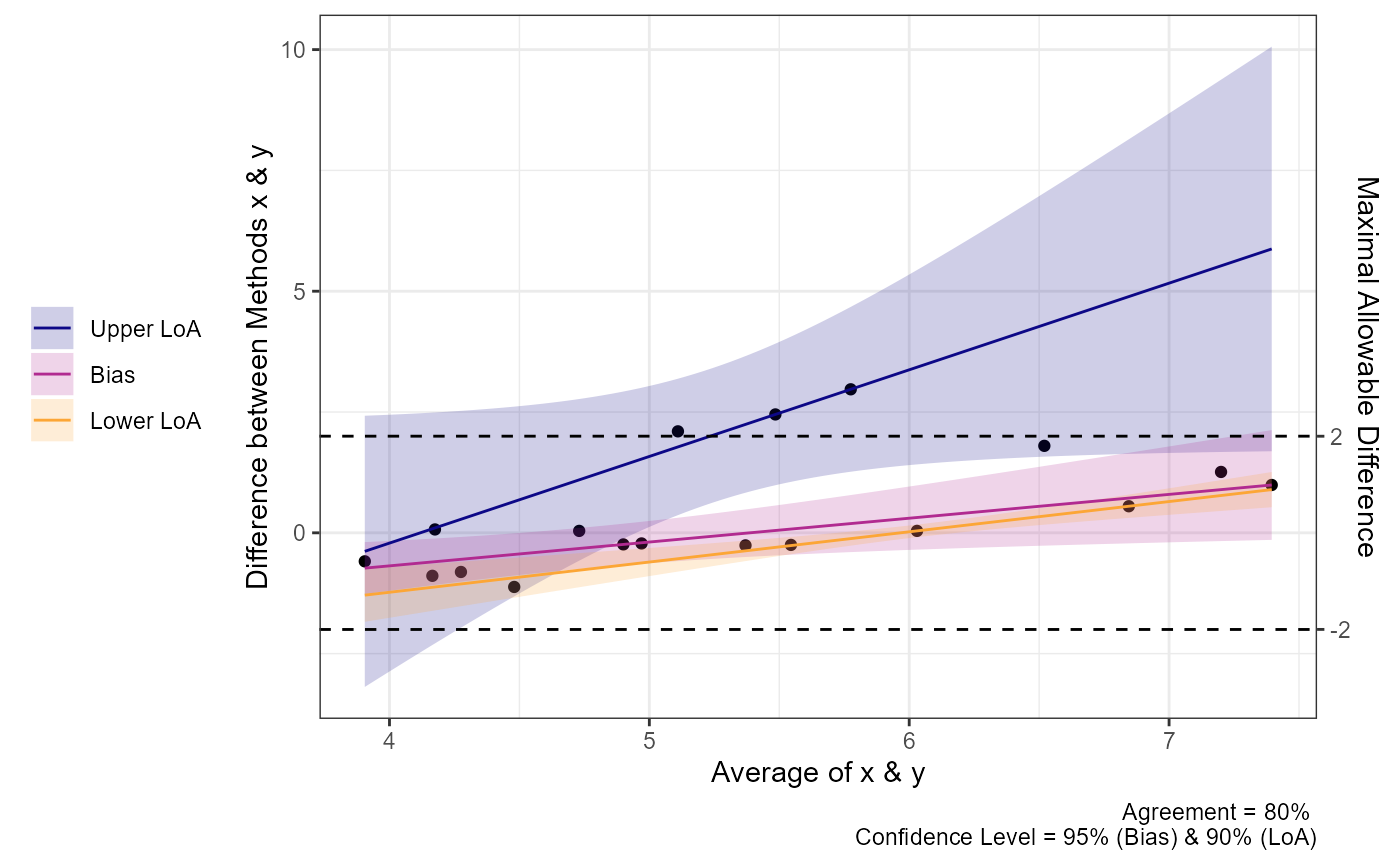
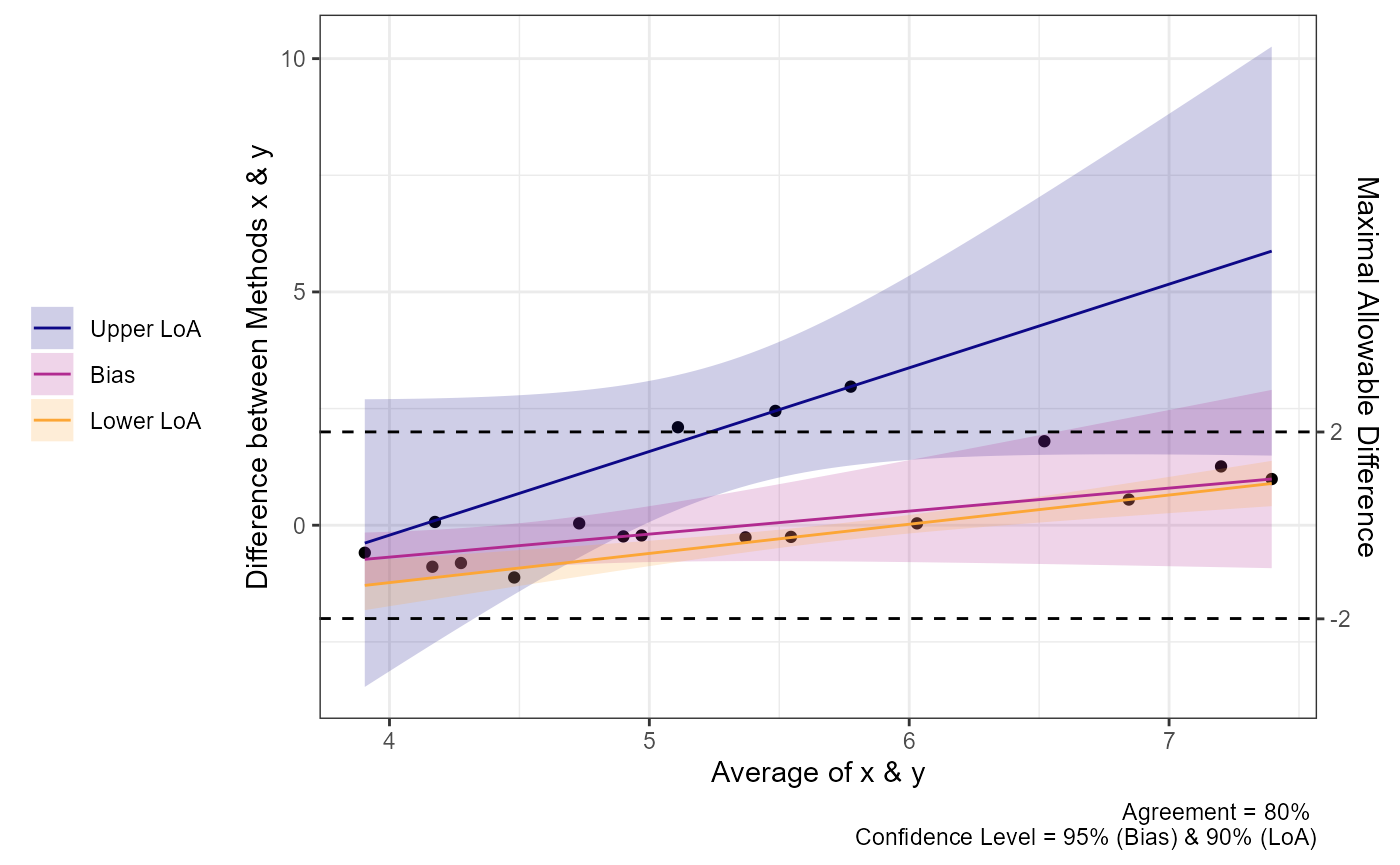
web changes

diff --git a/docs/articles/agreement_analysis.html b/docs/articles/agreement_analysis.html
@@ -651,8 +651,8 @@ are no longer symmetric around the bias estimate.</p>
 <span><span class="co">#&gt; ###- Quantile Limits of Agreement (LoA) -###</span></span>
 <span><span class="co">#&gt;           Estimate Lower CI Upper CI CI Level</span></span>
 <span><span class="co">#&gt; Lower LoA    -0.89  -1.3759  -0.4041     0.90</span></span>
-<span><span class="co">#&gt; Bias          0.04  -0.6825   0.7625     0.95</span></span>
-<span><span class="co">#&gt; Upper LoA     2.45   1.4178   3.4822     0.90</span></span>
+<span><span class="co">#&gt; Bias          0.04  -0.6582   0.7382     0.95</span></span>
+<span><span class="co">#&gt; Upper LoA     2.45   1.3896   3.5104     0.90</span></span>
 <span></span>
 <span><span class="fu"><a href="https://rdrr.io/r/graphics/plot.default.html" class="external-link">plot</a></span><span class="op">(</span><span class="va">a1</span><span class="op">)</span></span></code></pre></div>
 <p><img src="agreement_analysis_files/figure-html/unnamed-chunk-13-1.png" width="700"></p>
@@ -676,15 +676,15 @@ agreement does not.</p>
 <span><span class="co">#&gt; </span></span>
 <span><span class="co">#&gt; ###- Quantile Limits of Agreement (LoA) -###</span></span>
 <span><span class="co">#&gt;                  Estimate Lower CI Upper CI CI Level</span></span>
-<span><span class="co">#&gt; Lower LoA @ 3.9  -1.28975  -1.7194  -0.8601     0.90</span></span>
-<span><span class="co">#&gt; Lower LoA @ 5.24 -0.45436  -0.6428  -0.2659     0.90</span></span>
-<span><span class="co">#&gt; Lower LoA @ 7.4   0.89417   0.6212   1.1671     0.90</span></span>
-<span><span class="co">#&gt; Bias @ 3.9       -0.73052  -1.3272  -0.1339     0.95</span></span>
-<span><span class="co">#&gt; Bias @ 5.24      -0.07238  -0.5898   0.4451     0.95</span></span>
-<span><span class="co">#&gt; Bias @ 7.4        0.99000  -0.4188   2.3988     0.95</span></span>
-<span><span class="co">#&gt; Upper LoA @ 3.9  -0.38310  -3.1324   2.3662     0.90</span></span>
-<span><span class="co">#&gt; Upper LoA @ 5.24  2.01069   0.9436   3.0777     0.90</span></span>
-<span><span class="co">#&gt; Upper LoA @ 7.4   5.87483   2.3251   9.4246     0.90</span></span>
+<span><span class="co">#&gt; Lower LoA @ 3.9  -1.28975  -1.7276  -0.8519     0.90</span></span>
+<span><span class="co">#&gt; Lower LoA @ 5.24 -0.45436  -0.6417  -0.2670     0.90</span></span>
+<span><span class="co">#&gt; Lower LoA @ 7.4   0.89417   0.5876   1.2008     0.90</span></span>
+<span><span class="co">#&gt; Bias @ 3.9       -0.73052  -1.7030   0.2420     0.95</span></span>
+<span><span class="co">#&gt; Bias @ 5.24      -0.07238  -0.8649   0.7201     0.95</span></span>
+<span><span class="co">#&gt; Bias @ 7.4        0.99000  -0.7445   2.7245     0.95</span></span>
+<span><span class="co">#&gt; Upper LoA @ 3.9  -0.38310  -2.6429   1.8767     0.90</span></span>
+<span><span class="co">#&gt; Upper LoA @ 5.24  2.01069   0.9399   3.0815     0.90</span></span>
+<span><span class="co">#&gt; Upper LoA @ 7.4   5.87483   2.3076   9.4420     0.90</span></span>
 <span></span>
 <span><span class="fu"><a href="https://rdrr.io/r/graphics/plot.default.html" class="external-link">plot</a></span><span class="op">(</span><span class="va">a1</span><span class="op">)</span></span></code></pre></div>
 <p><img src="agreement_analysis_files/figure-html/unnamed-chunk-14-1.png" width="700"></p>

diff --git a/docs/reference/agree_np.html b/docs/reference/agree_np.html
@@ -163,9 +163,9 @@
 <span class="r-out co"><span class="r-pr">#&gt;</span> </span>
 <span class="r-out co"><span class="r-pr">#&gt;</span> ###- Quantile Limits of Agreement (LoA) -###</span>
 <span class="r-out co"><span class="r-pr">#&gt;</span>           Estimate Lower CI Upper CI CI Level</span>
-<span class="r-out co"><span class="r-pr">#&gt;</span> Lower LoA    -1.12  -1.4547  -0.7853     0.90</span>
-<span class="r-out co"><span class="r-pr">#&gt;</span> Bias          0.04  -0.4572   0.5372     0.95</span>
-<span class="r-out co"><span class="r-pr">#&gt;</span> Upper LoA     2.97   2.1676   3.7724     0.90</span>
+<span class="r-out co"><span class="r-pr">#&gt;</span> Lower LoA    -1.12  -1.4415  -0.7985     0.90</span>
+<span class="r-out co"><span class="r-pr">#&gt;</span> Bias          0.04  -0.5812   0.6612     0.95</span>
+<span class="r-out co"><span class="r-pr">#&gt;</span> Upper LoA     2.97   2.1875   3.7525     0.90</span>
 <span class="r-out co"><span class="r-pr">#&gt;</span> </span>
 </code></pre></div>
     </div>
